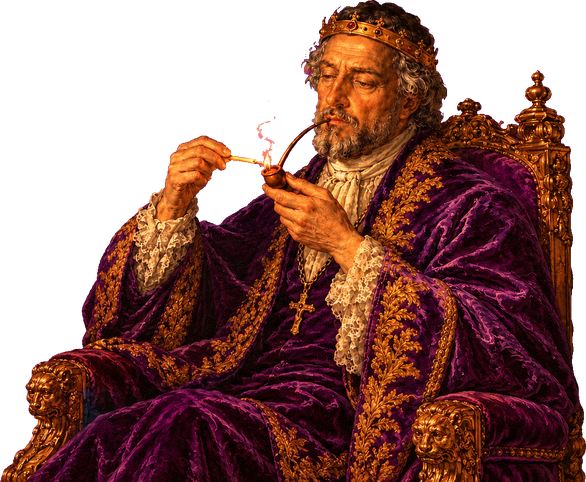
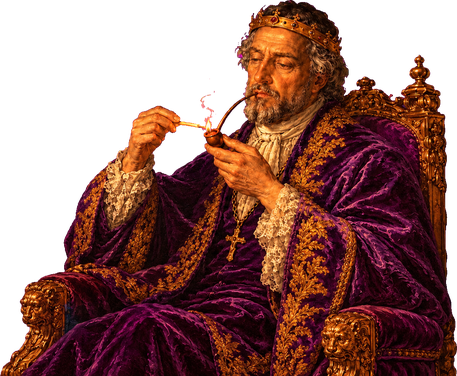
0.38.161: hub hotspots lose their drop shadow (the dark box behind each person); the King at 0.78 of his size, seated in the room's throne
Claude-Session: https://claude.ai/code/session_01NtmEZhP1uA8k4DLQ7BYfMz

Changed region(s): [[0.8578, 0.234, 0.8884, 0.2633], [0.7046, 0.0293, 0.7352, 0.0585], [0.4595, 0.3218, 0.4902, 0.3511]]

diff --git a/tools/import_hub_rome.py b/tools/import_hub_rome.py
@@ -26,10 +26,11 @@ OUT = "campaign/hub"
 # Where the figures go, in the room's pixels: the layer's own scale and its top-left corner. The King's lion
 # armrests land on the room chair's arms; Tomasz stands on the clear floor on the left, turned to the King.
 PLACE = {
-    "king": {"scale": 0.52, "at": [923, 164]},
+    # (0.38.161, the owner: "the king is too big": 0.78 of the first size, seated in the room's own throne)
+    "king": {"scale": 0.4056, "at": [1002.4, 272.5]},
     "tomasz": {"scale": 0.74, "at": [-262, 222], "tone": [0.76, 0.68, 0.62]},
 }
-FACES = {"king": (1338, 160, 1498, 320), "tomasz": (288, 228, 398, 338)}
+FACES = {"king": (1326, 269, 1451, 394), "tomasz": (288, 228, 398, 338)}
 # The desk's back edge in the room (x, y): everything below it, right of the candelabrum, is the desk drawn over
 # the King.
 DESK_EDGE = [(840, 640), (1000, 626), (1200, 616), (1400, 608), (1672, 600)]
@@ -89,7 +90,7 @@ def main():
                                    "pos": [dbox[0], dbox[1]], "size": [dk.width, dk.height]})
             comp.alpha_composite(dk, (dbox[0], dbox[1]))
     # what the hub animates in code (room pixels): the pipe's smoke and the match, the candle flames, breathing
-    info["fx"] = {"smoke": [1335, 343], "match": [1327, 331], "candles": [[617, 315], [677, 272], [737, 325]],
+    info["fx"] = {"smoke": [1324, 412], "match": [1317, 403], "candles": [[617, 315], [677, 272], [737, 325]],
                   "breathe": {"king": 0.006, "tomasz": 0.004}}
     # the talk box's portraits: the faces, cut from the room as composed (square, room pixels)
     for name, box in FACES.items():

diff --git a/README.md b/README.md
@@ -2,7 +2,7 @@
 
 *(the game was called Holdfast until November 2026, but that name belongs to another game; the old address, holdfastrts.github.io/Holdfast/, stops working once the organization is renamed)*
 
-**Play in your browser (version 0.38.160): https://triumviwar.github.io/**
+**Play in your browser (version 0.38.161): https://triumviwar.github.io/**
 
 **Windows program: https://triumviwar.github.io/Triumviwar_windows.zip** (rebuilt on every push; unzip it and run Triumviwar.exe; if Windows warns "Windows protected your PC", click More info, then Run anyway)
 
